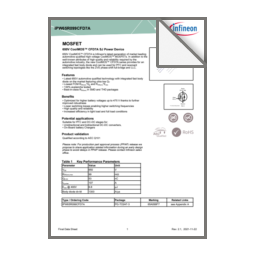
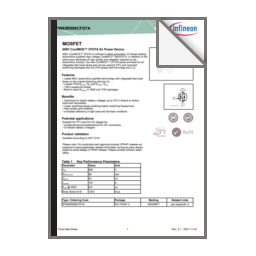
Add PDF binder overlay logic and update preview

Changed region(s): [[0.1875, 0.0625, 0.25, 0.9375]]

diff --git a/crates/core/src/plugins/pdf.rs b/crates/core/src/plugins/pdf.rs
@@ -56,6 +56,10 @@ impl ThumbnailGenerator for PdfGenerator {
 
 impl PdfGenerator {
     pub fn render_pdf(buffer: Option<&[u8]>, filepath: Option<&Path>, width: u32, height: u32) -> Result<Vec<u8>, String> {
+        // Load Binder Asset once
+        const BINDER_BYTES: &[u8] = include_bytes!("../assets/pdf_binder.png");
+        let binder_img_opt = image::load_from_memory(BINDER_BYTES).ok();
+
         // 1. Initialize PDFium and Load Content
         let mut bindings_result = Pdfium::bind_to_library(Pdfium::pdfium_platform_library_name_at_path("./"));
         
@@ -107,10 +111,53 @@ impl PdfGenerator {
                 let cover = bitmap.as_image();
                 let cover_scaled = cover.resize(max_w, max_h, FilterType::Triangle);
                 
-                let frame_w = cover_scaled.width() + (border_size * 2);
-                let frame_h = cover_scaled.height() + (border_size * 2);
+                let mut cover_rgba = cover_scaled.to_rgba8();
+
+                // Overlay Binder if available
+                if let Some(binder_img) = &binder_img_opt {
+                    let mut binder_rgba = binder_img.to_rgba8();
+                    // Height scaled to preview image (cover_scaled.height())
+                    // Width unchanged (but maintain aspect ratio? User said "Width unchanged; Height scaled to preview image")
+                    // If we scale height, width MUST change to maintain aspect ratio, unless we stretch.
+                    // User said "Width unchanged; Height scaled...". This is contradictory if aspect ratio matters.
+                    // "宽度不变" might mean "Don't stretch width arbitrarily" or "Keep original width".
+                    // But if original width is small/large, it might look wrong.
+                    // Let's assume "maintain aspect ratio" based on "scaled to".
+                    // Or maybe "Don't change the binder's original width, but stretch height"? That would look weird.
+                    // Let's try to maintain aspect ratio first.
+                    // Wait, "宽度不变" (width unchanged). Maybe they mean "relative width to the page"? No.
+                    // Maybe "use the original width of the binder image"?
+                    // If I use `resize`, it maintains aspect ratio.
+                    
+                    let target_h = cover_rgba.height();
+                    let scale = target_h as f32 / binder_rgba.height() as f32;
+                    let new_w = (binder_rgba.width() as f32 * scale) as u32;
+                    // But user said "Width unchanged". If I change width, it's changed.
+                    // Maybe "Width unchanged" means "Do not scale width"? i.e. Stretch height only?
+                    // Or "The width relative to the preview"?
+                    // Let's interpret "Height scaled to preview image" as the primary constraint.
+                    // And "Width unchanged" as "Don't force a specific width".
+                    // So `resize` with correct height is the way.
+                    
+                    let new_h = target_h;
+                    // resize takes w, h. If we want to preserve aspect ratio based on height:
+                    // We can calculate new width.
+                    // Or use `resize` which preserves aspect ratio.
+                    
+                    if new_h > 0 {
+                         // We use a very large width to ensure height is the limiting factor for resize
+                         // or calculate manually.
+                         binder_rgba = image::imageops::resize(&binder_rgba, new_w, new_h, FilterType::Triangle);
+                    }
+                    
+                    // Overlay at (0, 0)
+                    image::imageops::overlay(&mut cover_rgba, &binder_rgba, 0, 0);
+                }
+
+                let frame_w = cover_rgba.width() + (border_size * 2);
+                let frame_h = cover_rgba.height() + (border_size * 2);
                 let mut framed = RgbaImage::from_pixel(frame_w, frame_h, border_color);
-                image::imageops::overlay(&mut framed, &cover_scaled, border_size as i64, border_size as i64);
+                image::imageops::overlay(&mut framed, &cover_rgba, border_size as i64, border_size as i64);
                 Ok(framed)
             } else {
                 Err("Page not found".to_string())
